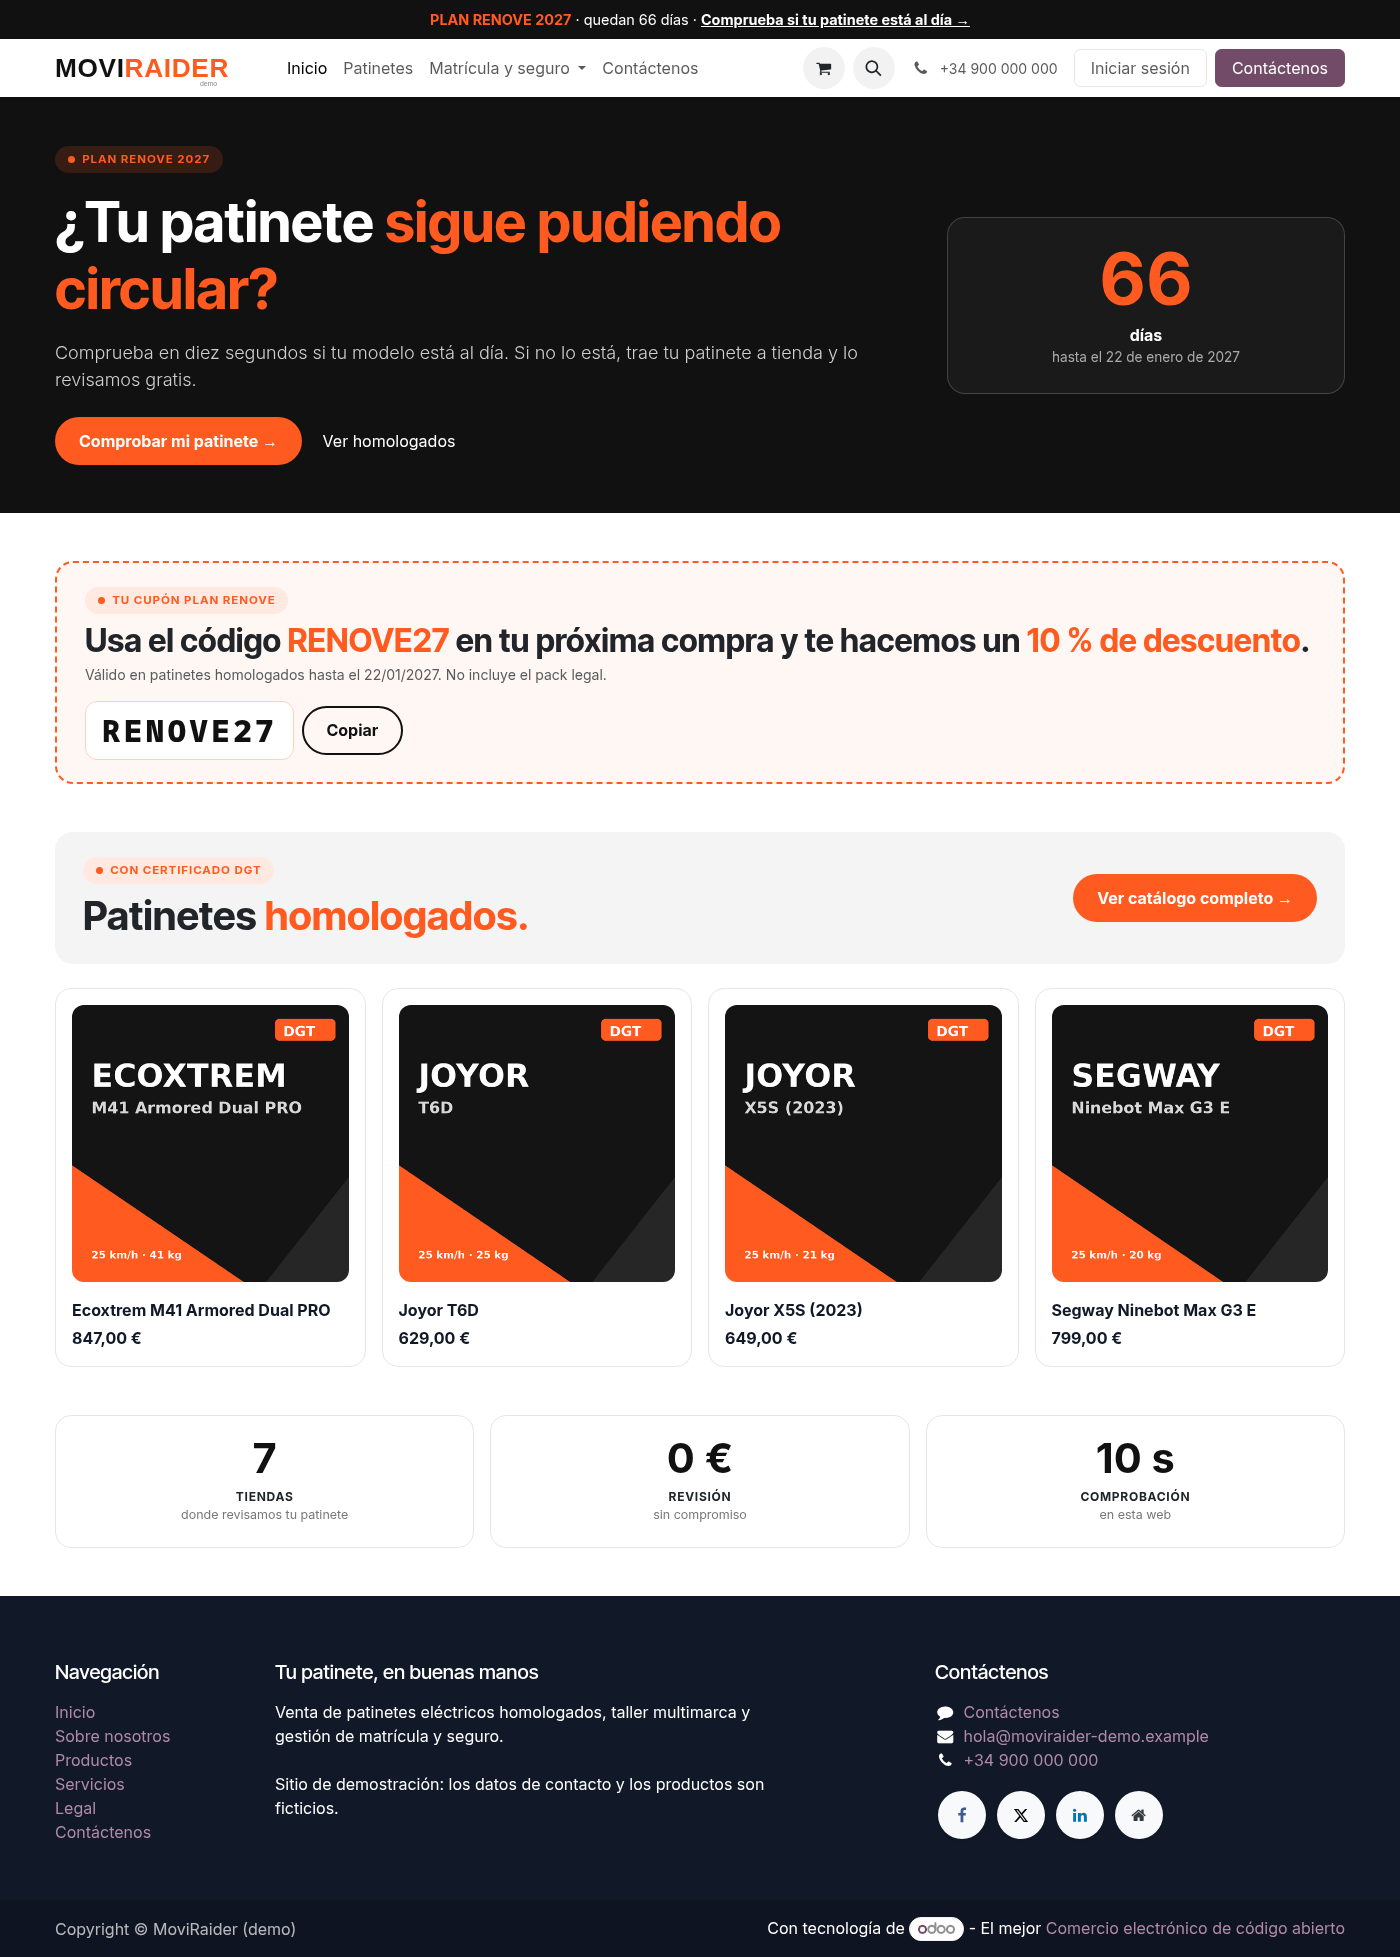
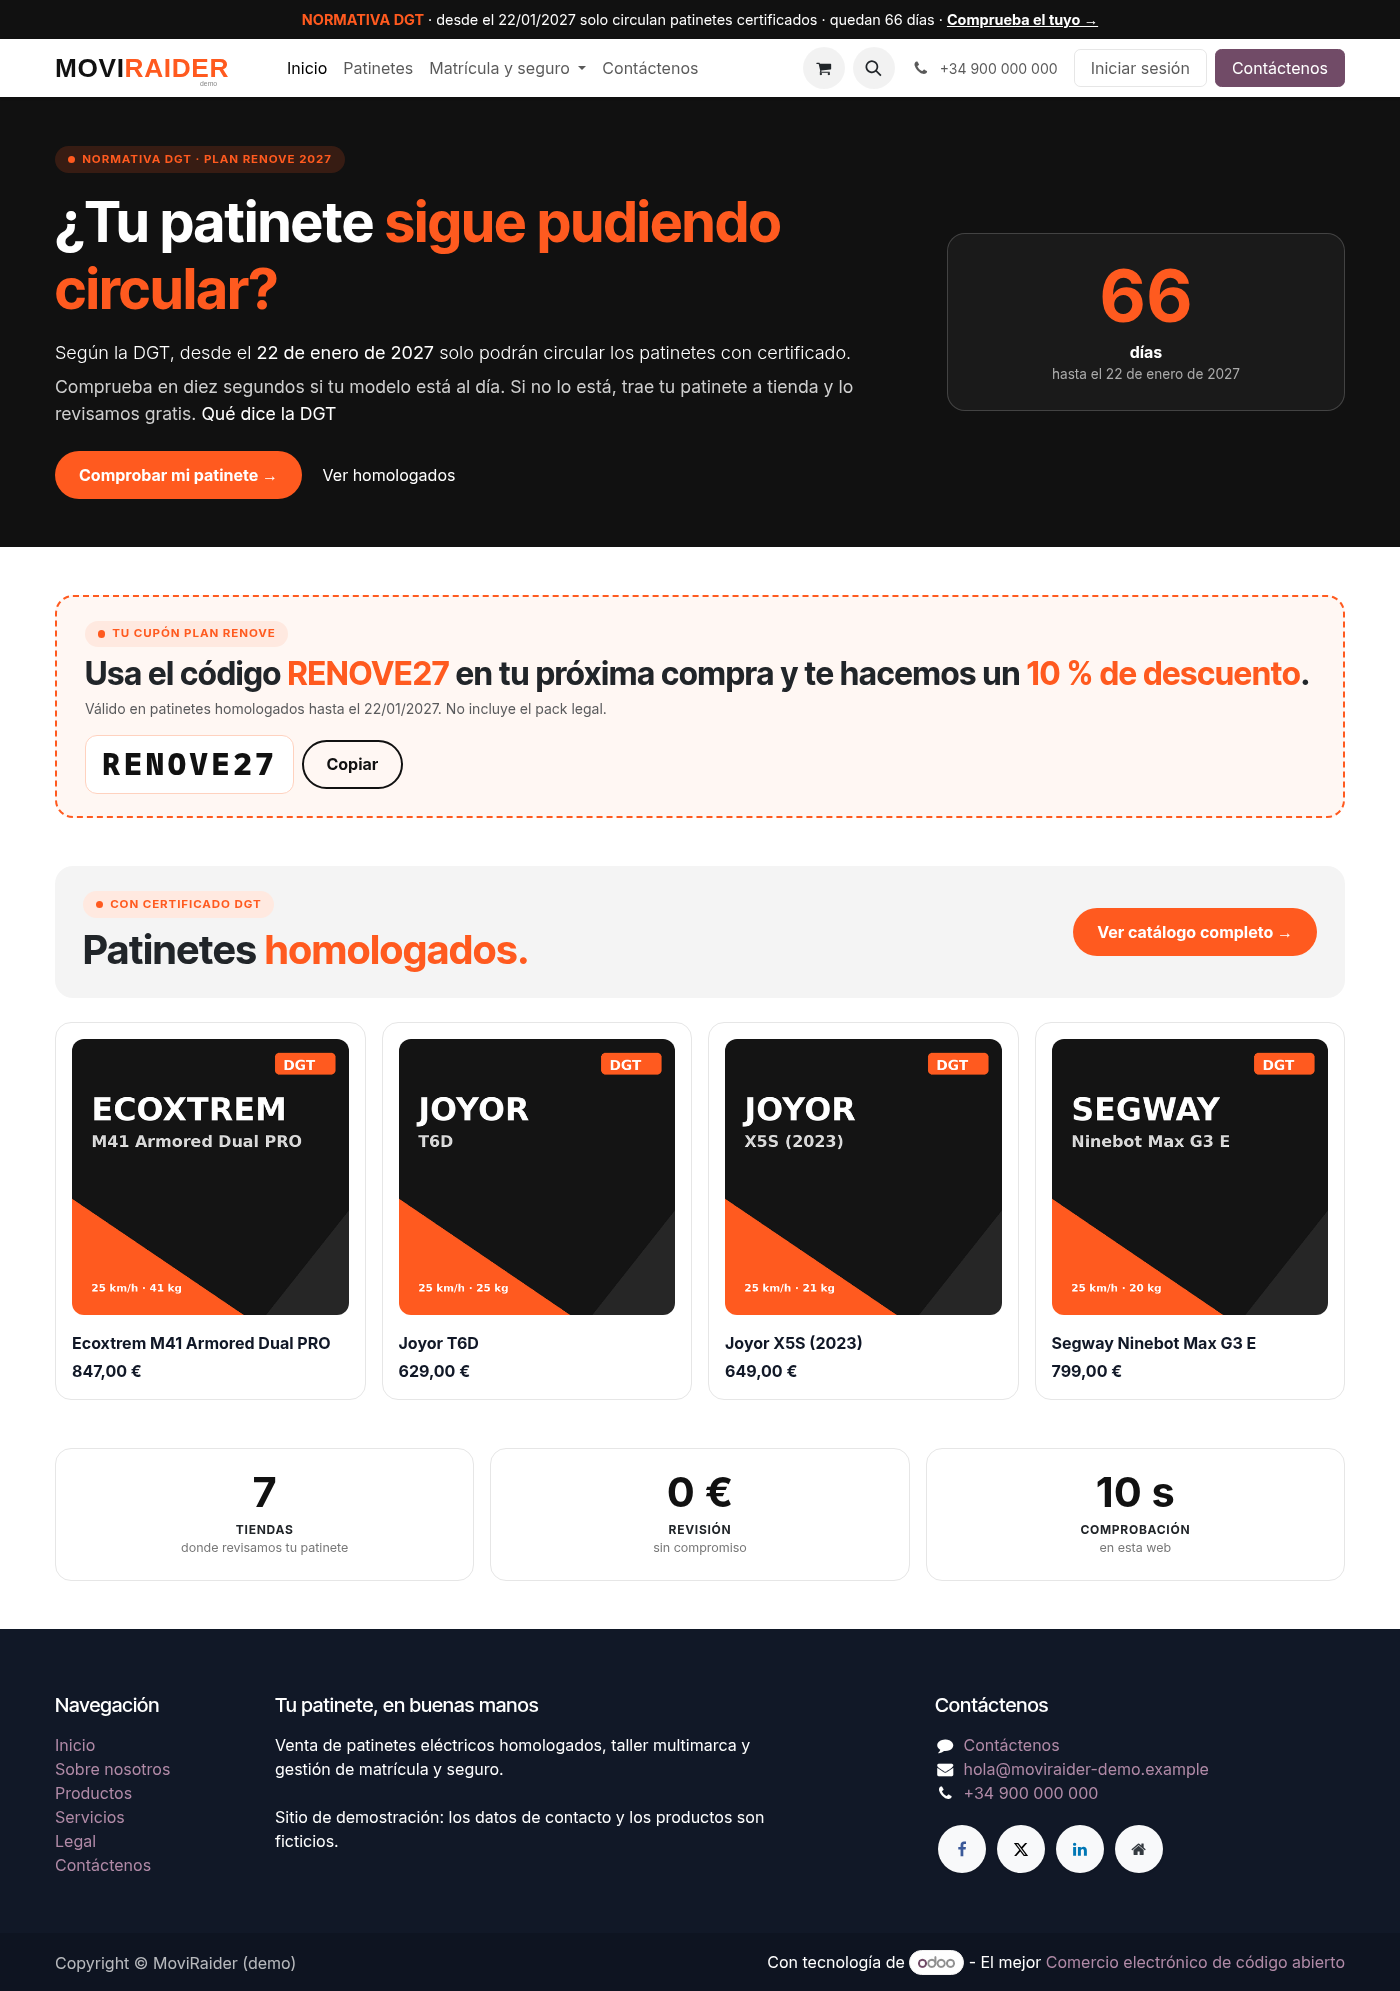
feat(renove): el código de descuento por defecto pasa a ser RENOVEDGT27

diff --git a/addons/moviraider_renove/models/campaign.py b/addons/moviraider_renove/models/campaign.py
@@ -25,7 +25,7 @@ class RenoveCampaign(models.Model):
     )
     deadline = fields.Date(string="Fin del periodo transitorio", default=date(2027, 1, 22), required=True)
     days_left = fields.Integer(string="Días restantes", compute="_compute_days_left")
-    discount_code = fields.Char(string="Código de descuento", default="RENOVE27")
+    discount_code = fields.Char(string="Código de descuento", default="RENOVEDGT27")
     discount_percent = fields.Float(
         string="Descuento (%)", default=10.0,
         help="Se aplica solo a los patinetes del pedido (no al pack legal).",
